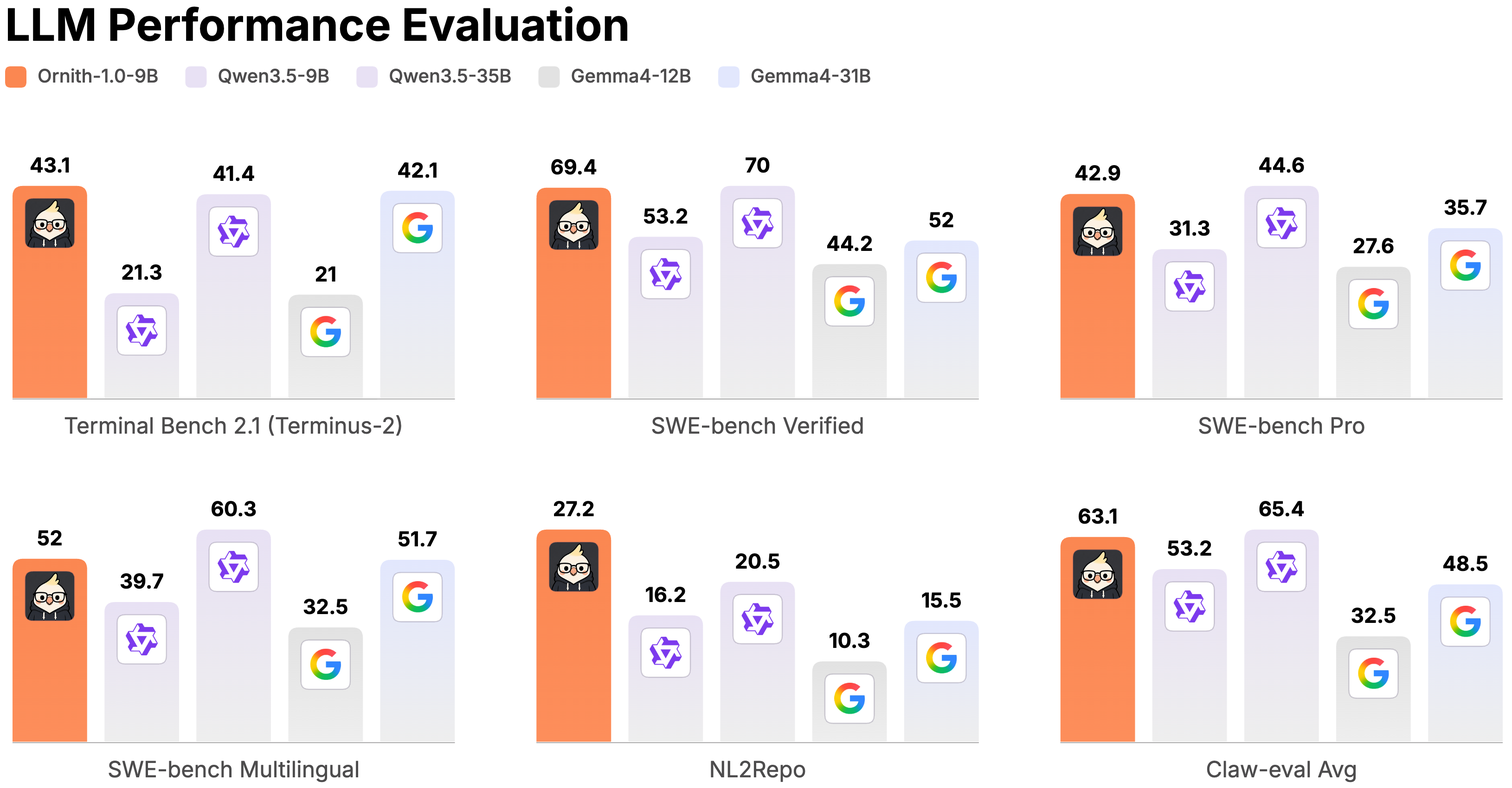
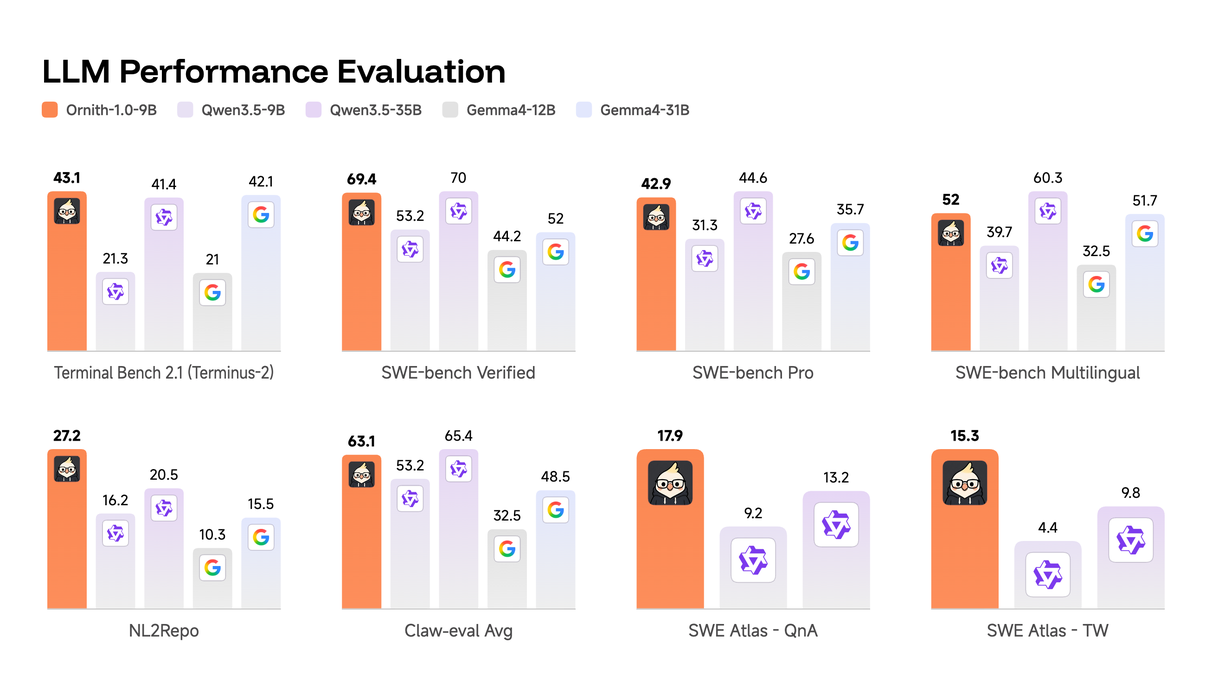
init

diff --git a/README.md b/README.md
@@ -26,70 +26,59 @@ This model card documents **Ornith-1.0-9B**, the most lightweight member of the 
 
 ### Benchmarks
 
+The table below merges the benchmark results of the full **Ornith-1.0** family (9B / 35B / 397B) into a single view. Each model is compared against the open-source and proprietary baselines reported in its respective model card.
 
-<div style="font-family:-apple-system,BlinkMacSystemFont,'Segoe UI',Roboto,sans-serif;width:100%;margin:0 auto;padding:16px 0">
-<table style="width:100%;table-layout:fixed;border-collapse:collapse;font-size:13px">
-<thead><tr>
-<th style="width:28%;padding:10px 7px;text-align:left;font-weight:600;border-bottom:2px solid #FD8E5B;color:#FD8E5B"></th><th style="width:14.4%;padding:10px 7px;text-align:center;font-weight:700;border-bottom:2px solid #FD8E5B;color:#FD8E5B;font-size:14px;background:rgba(253, 142, 91, 0.12)">Ornith-1.0-9B</th><th style="width:14.4%;padding:10px 7px;text-align:center;font-weight:500;border-bottom:2px solid #FD8E5B;color:#FD8E5B;font-size:14px;">Qwen3.5-9B</th><th style="width:14.4%;padding:10px 7px;text-align:center;font-weight:500;border-bottom:2px solid #FD8E5B;color:#FD8E5B;font-size:14px;">Qwen3.5-35B-A3B</th><th style="width:14.4%;padding:10px 7px;text-align:center;font-weight:500;border-bottom:2px solid #FD8E5B;color:#FD8E5B;font-size:14px;">Gemma4-12B</th><th style="width:14.4%;padding:10px 7px;text-align:center;font-weight:500;border-bottom:2px solid #FD8E5B;color:#FD8E5B;font-size:14px;">Gemma4-31B</th></tr></thead>
+<div style="font-family:-apple-system,BlinkMacSystemFont,'Segoe UI',Roboto,sans-serif;width:100%;margin:0 auto;padding:16px 0;overflow-x:auto">
+<table style="min-width:1180px;border-collapse:collapse;font-size:12px">
+<thead>
+<tr>
+<th style="padding:8px 8px;text-align:left;border-bottom:2px solid #FD8E5B;color:#FD8E5B"></th>
+<th colspan="3" style="padding:8px 7px;text-align:center;font-weight:700;border-bottom:2px solid #FD8E5B;color:#FD8E5B;background:rgba(253,142,91,0.12);">Ornith-1.0 (ours)</th>
+<th colspan="9" style="padding:8px 7px;text-align:center;font-weight:600;border-bottom:2px solid #FD8E5B;color:#FD8E5B;">Open-Source Baselines</th>
+<th colspan="3" style="padding:8px 7px;text-align:center;font-weight:600;border-bottom:2px solid #FD8E5B;color:#FD8E5B;">Proprietary</th>
+</tr>
+<tr>
+<th style="padding:8px 8px;text-align:left;border-bottom:2px solid #FD8E5B;color:#FD8E5B"></th>
+<th style="padding:8px 6px;text-align:center;font-weight:700;border-bottom:2px solid #FD8E5B;color:#FD8E5B;background:rgba(253,142,91,0.12)">Ornith-1.0-9B</th>
+<th style="padding:8px 6px;text-align:center;font-weight:700;border-bottom:2px solid #FD8E5B;color:#FD8E5B;background:rgba(253,142,91,0.12)">Ornith-1.0-35B</th>
+<th style="padding:8px 6px;text-align:center;font-weight:700;border-bottom:2px solid #FD8E5B;color:#FD8E5B;background:rgba(253,142,91,0.12)">Ornith-1.0-397B</th>
+<th style="padding:8px 6px;text-align:center;font-weight:500;border-bottom:2px solid #FD8E5B;color:#FD8E5B">Qwen3.5-9B</th>
+<th style="padding:8px 6px;text-align:center;font-weight:500;border-bottom:2px solid #FD8E5B;color:#FD8E5B">Gemma4-12B</th>
+<th style="padding:8px 6px;text-align:center;font-weight:500;border-bottom:2px solid #FD8E5B;color:#FD8E5B">Qwen3.5-35B</th>
+<th style="padding:8px 6px;text-align:center;font-weight:500;border-bottom:2px solid #FD8E5B;color:#FD8E5B">Qwen3.6-35B</th>
+<th style="padding:8px 6px;text-align:center;font-weight:500;border-bottom:2px solid #FD8E5B;color:#FD8E5B">Gemma4-31B</th>
+<th style="padding:8px 6px;text-align:center;font-weight:500;border-bottom:2px solid #FD8E5B;color:#FD8E5B">Qwen3.5-397B</th>
+<th style="padding:8px 6px;text-align:center;font-weight:500;border-bottom:2px solid #FD8E5B;color:#FD8E5B">Minimax-M3-428B</th>
+<th style="padding:8px 6px;text-align:center;font-weight:500;border-bottom:2px solid #FD8E5B;color:#FD8E5B">GLM-5.2-744B</th>
+<th style="padding:8px 6px;text-align:center;font-weight:500;border-bottom:2px solid #FD8E5B;color:#FD8E5B">DeepSeek-V4-Pro-1.6T</th>
+<th style="padding:8px 6px;text-align:center;font-weight:500;border-bottom:2px solid #FD8E5B;color:#FD8E5B">Qwen3.7-Max</th>
+<th style="padding:8px 6px;text-align:center;font-weight:500;border-bottom:2px solid #FD8E5B;color:#FD8E5B">Claude Opus 4.7</th>
+<th style="padding:8px 6px;text-align:center;font-weight:500;border-bottom:2px solid #FD8E5B;color:#FD8E5B">Claude Opus 4.8</th>
+</tr>
+</thead>
 <tbody>
-<tr><td colspan="6" style="padding:8px 12px;font-weight:600;color:#FD8E5B;border-bottom:1px solid rgba(253, 142, 91, 0.2);background:rgba(253, 142, 91, 0.1)">Agentic Coding</td></tr>
-<tr>
-<td style="padding:7px 7px;padding-left:20px;border-bottom:1px solid rgba(128, 128, 128, 0.15);">Terminal-Bench 2.1 <sub><small>(Terminus-2)</small></sub></td>
-<td style="padding:7px 7px;text-align:center;border-bottom:1px solid rgba(128, 128, 128, 0.15);font-weight:600;color:#FD8E5B;background:rgba(253, 142, 91, 0.06)">43.1</td>
-<td style="padding:7px 7px;text-align:center;border-bottom:1px solid rgba(128, 128, 128, 0.15)">21.3</td>
-<td style="padding:7px 7px;text-align:center;border-bottom:1px solid rgba(128, 128, 128, 0.15)">41.4</td>
-<td style="padding:7px 7px;text-align:center;border-bottom:1px solid rgba(128, 128, 128, 0.15)">21.0</td>
-<td style="padding:7px 7px;text-align:center;border-bottom:1px solid rgba(128, 128, 128, 0.15)">42.1</td>
-</tr>
-<tr>
-<td style="padding:7px 7px;padding-left:20px;border-bottom:1px solid rgba(128, 128, 128, 0.15);">SWE-bench Verified</td>
-<td style="padding:7px 7px;text-align:center;border-bottom:1px solid rgba(128, 128, 128, 0.15);font-weight:600;color:#FD8E5B;background:rgba(253, 142, 91, 0.06)">69.4</td>
-<td style="padding:7px 7px;text-align:center;border-bottom:1px solid rgba(128, 128, 128, 0.15)">53.2</td>
-<td style="padding:7px 7px;text-align:center;border-bottom:1px solid rgba(128, 128, 128, 0.15)">70.0</td>
-<td style="padding:7px 7px;text-align:center;border-bottom:1px solid rgba(128, 128, 128, 0.15)">44.2</td>
-<td style="padding:7px 7px;text-align:center;border-bottom:1px solid rgba(128, 128, 128, 0.15)">52.0</td>
-</tr>
-<tr>
-<td style="padding:7px 7px;padding-left:20px;border-bottom:1px solid rgba(128, 128, 128, 0.15);">SWE-bench Pro</td>
-<td style="padding:7px 7px;text-align:center;border-bottom:1px solid rgba(128, 128, 128, 0.15);font-weight:600;color:#FD8E5B;background:rgba(253, 142, 91, 0.06)">42.9</td>
-<td style="padding:7px 7px;text-align:center;border-bottom:1px solid rgba(128, 128, 128, 0.15)">31.3</td>
-<td style="padding:7px 7px;text-align:center;border-bottom:1px solid rgba(128, 128, 128, 0.15)">44.6</td>
-<td style="padding:7px 7px;text-align:center;border-bottom:1px solid rgba(128, 128, 128, 0.15)">27.6</td>
-<td style="padding:7px 7px;text-align:center;border-bottom:1px solid rgba(128, 128, 128, 0.15)">35.7</td>
-</tr>
-<tr>
-<td style="padding:7px 7px;padding-left:20px;border-bottom:1px solid rgba(128, 128, 128, 0.15);">SWE-bench Multilingual</td>
-<td style="padding:7px 7px;text-align:center;border-bottom:1px solid rgba(128, 128, 128, 0.15);font-weight:600;color:#FD8E5B;background:rgba(253, 142, 91, 0.06)">52.0</td>
-<td style="padding:7px 7px;text-align:center;border-bottom:1px solid rgba(128, 128, 128, 0.15)">39.7</td>
-<td style="padding:7px 7px;text-align:center;border-bottom:1px solid rgba(128, 128, 128, 0.15)">60.3</td>
-<td style="padding:7px 7px;text-align:center;border-bottom:1px solid rgba(128, 128, 128, 0.15)">32.5</td>
-<td style="padding:7px 7px;text-align:center;border-bottom:1px solid rgba(128, 128, 128, 0.15)">51.7</td>
-</tr>
-<tr>
-<td style="padding:7px 7px;padding-left:20px;border-bottom:1px solid rgba(128, 128, 128, 0.15);">NL2Repo</td>
-<td style="padding:7px 7px;text-align:center;border-bottom:1px solid rgba(128, 128, 128, 0.15);font-weight:600;color:#FD8E5B;background:rgba(253, 142, 91, 0.06)">27.2</td>
-<td style="padding:7px 7px;text-align:center;border-bottom:1px solid rgba(128, 128, 128, 0.15)">16.2</td>
-<td style="padding:7px 7px;text-align:center;border-bottom:1px solid rgba(128, 128, 128, 0.15)">20.5</td>
-<td style="padding:7px 7px;text-align:center;border-bottom:1px solid rgba(128, 128, 128, 0.15)">10.3</td>
-<td style="padding:7px 7px;text-align:center;border-bottom:1px solid rgba(128, 128, 128, 0.15)">15.5</td>
-</tr>
-<tr>
-<td style="padding:7px 7px;padding-left:20px;border-bottom:1px solid rgba(128, 128, 128, 0.15);">Claw-eval Avg</td>
-<td style="padding:7px 7px;text-align:center;border-bottom:1px solid rgba(128, 128, 128, 0.15);font-weight:600;color:#FD8E5B;background:rgba(253, 142, 91, 0.06)">63.1</td>
-<td style="padding:7px 7px;text-align:center;border-bottom:1px solid rgba(128, 128, 128, 0.15)">53.2</td>
-<td style="padding:7px 7px;text-align:center;border-bottom:1px solid rgba(128, 128, 128, 0.15)">65.4</td>
-<td style="padding:7px 7px;text-align:center;border-bottom:1px solid rgba(128, 128, 128, 0.15)">32.5</td>
-<td style="padding:7px 7px;text-align:center;border-bottom:1px solid rgba(128, 128, 128, 0.15)">48.5</td>
-</tr>
+<tr><td colspan="16" style="padding:8px 12px;font-weight:600;color:#FD8E5B;border-bottom:1px solid rgba(253,142,91,0.2);background:rgba(253,142,91,0.1)">Agentic Coding</td></tr>
+<tr><td style="padding:6px 8px;padding-left:16px;border-bottom:1px solid rgba(128,128,128,0.15);white-space:nowrap">Terminal-Bench 2.1 <sub><small>(Terminus-2)</small></sub></td><td style="padding:6px 6px;text-align:center;border-bottom:1px solid rgba(128,128,128,0.15);font-weight:600;color:#FD8E5B;background:rgba(253,142,91,0.06)">43.1</td><td style="padding:6px 6px;text-align:center;border-bottom:1px solid rgba(128,128,128,0.15);font-weight:600;color:#FD8E5B;background:rgba(253,142,91,0.06)">64.2</td><td style="padding:6px 6px;text-align:center;border-bottom:1px solid rgba(128,128,128,0.15);font-weight:600;color:#FD8E5B;background:rgba(253,142,91,0.06)">77.5</td><td style="padding:6px 6px;text-align:center;border-bottom:1px solid rgba(128,128,128,0.15)">21.3</td><td style="padding:6px 6px;text-align:center;border-bottom:1px solid rgba(128,128,128,0.15)">21</td><td style="padding:6px 6px;text-align:center;border-bottom:1px solid rgba(128,128,128,0.15)">41.4</td><td style="padding:6px 6px;text-align:center;border-bottom:1px solid rgba(128,128,128,0.15)">52.5</td><td style="padding:6px 6px;text-align:center;border-bottom:1px solid rgba(128,128,128,0.15)">42.1</td><td style="padding:6px 6px;text-align:center;border-bottom:1px solid rgba(128,128,128,0.15)">53.5</td><td style="padding:6px 6px;text-align:center;border-bottom:1px solid rgba(128,128,128,0.15)">64</td><td style="padding:6px 6px;text-align:center;border-bottom:1px solid rgba(128,128,128,0.15)">81.0</td><td style="padding:6px 6px;text-align:center;border-bottom:1px solid rgba(128,128,128,0.15)">64</td><td style="padding:6px 6px;text-align:center;border-bottom:1px solid rgba(128,128,128,0.15)">73.5</td><td style="padding:6px 6px;text-align:center;border-bottom:1px solid rgba(128,128,128,0.15)">70.3</td><td style="padding:6px 6px;text-align:center;border-bottom:1px solid rgba(128,128,128,0.15)">85</td></tr>
+<tr><td style="padding:6px 8px;padding-left:16px;border-bottom:1px solid rgba(128,128,128,0.15);white-space:nowrap">Terminal-Bench 2.1 <sub><small>(Claude Code)</small></sub></td><td style="padding:6px 6px;text-align:center;border-bottom:1px solid rgba(128,128,128,0.15);font-weight:600;color:#FD8E5B;background:rgba(253,142,91,0.06)">40.6</td><td style="padding:6px 6px;text-align:center;border-bottom:1px solid rgba(128,128,128,0.15);font-weight:600;color:#FD8E5B;background:rgba(253,142,91,0.06)">62.8</td><td style="padding:6px 6px;text-align:center;border-bottom:1px solid rgba(128,128,128,0.15);font-weight:600;color:#FD8E5B;background:rgba(253,142,91,0.06)">78.2</td><td style="padding:6px 6px;text-align:center;border-bottom:1px solid rgba(128,128,128,0.15)">18.9</td><td style="padding:6px 6px;text-align:center;border-bottom:1px solid rgba(128,128,128,0.15)">-</td><td style="padding:6px 6px;text-align:center;border-bottom:1px solid rgba(128,128,128,0.15)">38.9</td><td style="padding:6px 6px;text-align:center;border-bottom:1px solid rgba(128,128,128,0.15)">49.2</td><td style="padding:6px 6px;text-align:center;border-bottom:1px solid rgba(128,128,128,0.15)">-</td><td style="padding:6px 6px;text-align:center;border-bottom:1px solid rgba(128,128,128,0.15)">48.6</td><td style="padding:6px 6px;text-align:center;border-bottom:1px solid rgba(128,128,128,0.15)">-</td><td style="padding:6px 6px;text-align:center;border-bottom:1px solid rgba(128,128,128,0.15)">82.7</td><td style="padding:6px 6px;text-align:center;border-bottom:1px solid rgba(128,128,128,0.15)">66.5</td><td style="padding:6px 6px;text-align:center;border-bottom:1px solid rgba(128,128,128,0.15)">69.8</td><td style="padding:6px 6px;text-align:center;border-bottom:1px solid rgba(128,128,128,0.15)">69.7</td><td style="padding:6px 6px;text-align:center;border-bottom:1px solid rgba(128,128,128,0.15)">78.9</td></tr>
+<tr><td style="padding:6px 8px;padding-left:16px;border-bottom:1px solid rgba(128,128,128,0.15);white-space:nowrap">SWE-bench Verified</td><td style="padding:6px 6px;text-align:center;border-bottom:1px solid rgba(128,128,128,0.15);font-weight:600;color:#FD8E5B;background:rgba(253,142,91,0.06)">69.4</td><td style="padding:6px 6px;text-align:center;border-bottom:1px solid rgba(128,128,128,0.15);font-weight:600;color:#FD8E5B;background:rgba(253,142,91,0.06)">75.6</td><td style="padding:6px 6px;text-align:center;border-bottom:1px solid rgba(128,128,128,0.15);font-weight:600;color:#FD8E5B;background:rgba(253,142,91,0.06)">82.4</td><td style="padding:6px 6px;text-align:center;border-bottom:1px solid rgba(128,128,128,0.15)">53.2</td><td style="padding:6px 6px;text-align:center;border-bottom:1px solid rgba(128,128,128,0.15)">44.2</td><td style="padding:6px 6px;text-align:center;border-bottom:1px solid rgba(128,128,128,0.15)">70</td><td style="padding:6px 6px;text-align:center;border-bottom:1px solid rgba(128,128,128,0.15)">73.4</td><td style="padding:6px 6px;text-align:center;border-bottom:1px solid rgba(128,128,128,0.15)">52</td><td style="padding:6px 6px;text-align:center;border-bottom:1px solid rgba(128,128,128,0.15)">76.4</td><td style="padding:6px 6px;text-align:center;border-bottom:1px solid rgba(128,128,128,0.15)">-</td><td style="padding:6px 6px;text-align:center;border-bottom:1px solid rgba(128,128,128,0.15)">-</td><td style="padding:6px 6px;text-align:center;border-bottom:1px solid rgba(128,128,128,0.15)">80.6</td><td style="padding:6px 6px;text-align:center;border-bottom:1px solid rgba(128,128,128,0.15)">80.4</td><td style="padding:6px 6px;text-align:center;border-bottom:1px solid rgba(128,128,128,0.15)">80.8</td><td style="padding:6px 6px;text-align:center;border-bottom:1px solid rgba(128,128,128,0.15)">87.6</td></tr>
+<tr><td style="padding:6px 8px;padding-left:16px;border-bottom:1px solid rgba(128,128,128,0.15);white-space:nowrap">SWE-bench Pro</td><td style="padding:6px 6px;text-align:center;border-bottom:1px solid rgba(128,128,128,0.15);font-weight:600;color:#FD8E5B;background:rgba(253,142,91,0.06)">42.9</td><td style="padding:6px 6px;text-align:center;border-bottom:1px solid rgba(128,128,128,0.15);font-weight:600;color:#FD8E5B;background:rgba(253,142,91,0.06)">50.4</td><td style="padding:6px 6px;text-align:center;border-bottom:1px solid rgba(128,128,128,0.15);font-weight:600;color:#FD8E5B;background:rgba(253,142,91,0.06)">62.2</td><td style="padding:6px 6px;text-align:center;border-bottom:1px solid rgba(128,128,128,0.15)">31.3</td><td style="padding:6px 6px;text-align:center;border-bottom:1px solid rgba(128,128,128,0.15)">27.6</td><td style="padding:6px 6px;text-align:center;border-bottom:1px solid rgba(128,128,128,0.15)">44.6</td><td style="padding:6px 6px;text-align:center;border-bottom:1px solid rgba(128,128,128,0.15)">49.5</td><td style="padding:6px 6px;text-align:center;border-bottom:1px solid rgba(128,128,128,0.15)">35.7</td><td style="padding:6px 6px;text-align:center;border-bottom:1px solid rgba(128,128,128,0.15)">51.6</td><td style="padding:6px 6px;text-align:center;border-bottom:1px solid rgba(128,128,128,0.15)">59</td><td style="padding:6px 6px;text-align:center;border-bottom:1px solid rgba(128,128,128,0.15)">62.1</td><td style="padding:6px 6px;text-align:center;border-bottom:1px solid rgba(128,128,128,0.15)">55.4</td><td style="padding:6px 6px;text-align:center;border-bottom:1px solid rgba(128,128,128,0.15)">60.6</td><td style="padding:6px 6px;text-align:center;border-bottom:1px solid rgba(128,128,128,0.15)">64.3</td><td style="padding:6px 6px;text-align:center;border-bottom:1px solid rgba(128,128,128,0.15)">69.2</td></tr>
+<tr><td style="padding:6px 8px;padding-left:16px;border-bottom:1px solid rgba(128,128,128,0.15);white-space:nowrap">SWE-bench Multilingual</td><td style="padding:6px 6px;text-align:center;border-bottom:1px solid rgba(128,128,128,0.15);font-weight:600;color:#FD8E5B;background:rgba(253,142,91,0.06)">52</td><td style="padding:6px 6px;text-align:center;border-bottom:1px solid rgba(128,128,128,0.15);font-weight:600;color:#FD8E5B;background:rgba(253,142,91,0.06)">69.3</td><td style="padding:6px 6px;text-align:center;border-bottom:1px solid rgba(128,128,128,0.15);font-weight:600;color:#FD8E5B;background:rgba(253,142,91,0.06)">78.9</td><td style="padding:6px 6px;text-align:center;border-bottom:1px solid rgba(128,128,128,0.15)">39.7</td><td style="padding:6px 6px;text-align:center;border-bottom:1px solid rgba(128,128,128,0.15)">32.5</td><td style="padding:6px 6px;text-align:center;border-bottom:1px solid rgba(128,128,128,0.15)">60.3</td><td style="padding:6px 6px;text-align:center;border-bottom:1px solid rgba(128,128,128,0.15)">67.2</td><td style="padding:6px 6px;text-align:center;border-bottom:1px solid rgba(128,128,128,0.15)">51.7</td><td style="padding:6px 6px;text-align:center;border-bottom:1px solid rgba(128,128,128,0.15)">69.3</td><td style="padding:6px 6px;text-align:center;border-bottom:1px solid rgba(128,128,128,0.15)">-</td><td style="padding:6px 6px;text-align:center;border-bottom:1px solid rgba(128,128,128,0.15)">-</td><td style="padding:6px 6px;text-align:center;border-bottom:1px solid rgba(128,128,128,0.15)">76.2</td><td style="padding:6px 6px;text-align:center;border-bottom:1px solid rgba(128,128,128,0.15)">78.3</td><td style="padding:6px 6px;text-align:center;border-bottom:1px solid rgba(128,128,128,0.15)">-</td><td style="padding:6px 6px;text-align:center;border-bottom:1px solid rgba(128,128,128,0.15)">-</td></tr>
+<tr><td style="padding:6px 8px;padding-left:16px;border-bottom:1px solid rgba(128,128,128,0.15);white-space:nowrap">NL2Repo</td><td style="padding:6px 6px;text-align:center;border-bottom:1px solid rgba(128,128,128,0.15);font-weight:600;color:#FD8E5B;background:rgba(253,142,91,0.06)">27.2</td><td style="padding:6px 6px;text-align:center;border-bottom:1px solid rgba(128,128,128,0.15);font-weight:600;color:#FD8E5B;background:rgba(253,142,91,0.06)">34.6</td><td style="padding:6px 6px;text-align:center;border-bottom:1px solid rgba(128,128,128,0.15);font-weight:600;color:#FD8E5B;background:rgba(253,142,91,0.06)">48.2</td><td style="padding:6px 6px;text-align:center;border-bottom:1px solid rgba(128,128,128,0.15)">16.2</td><td style="padding:6px 6px;text-align:center;border-bottom:1px solid rgba(128,128,128,0.15)">10.3</td><td style="padding:6px 6px;text-align:center;border-bottom:1px solid rgba(128,128,128,0.15)">20.5</td><td style="padding:6px 6px;text-align:center;border-bottom:1px solid rgba(128,128,128,0.15)">29.4</td><td style="padding:6px 6px;text-align:center;border-bottom:1px solid rgba(128,128,128,0.15)">15.5</td><td style="padding:6px 6px;text-align:center;border-bottom:1px solid rgba(128,128,128,0.15)">36.8</td><td style="padding:6px 6px;text-align:center;border-bottom:1px solid rgba(128,128,128,0.15)">42.1</td><td style="padding:6px 6px;text-align:center;border-bottom:1px solid rgba(128,128,128,0.15)">48.9</td><td style="padding:6px 6px;text-align:center;border-bottom:1px solid rgba(128,128,128,0.15)">-</td><td style="padding:6px 6px;text-align:center;border-bottom:1px solid rgba(128,128,128,0.15)">47.2</td><td style="padding:6px 6px;text-align:center;border-bottom:1px solid rgba(128,128,128,0.15)">-</td><td style="padding:6px 6px;text-align:center;border-bottom:1px solid rgba(128,128,128,0.15)">69.7</td></tr>
+<tr><td style="padding:6px 8px;padding-left:16px;border-bottom:1px solid rgba(128,128,128,0.15);white-space:nowrap">Claw-eval Avg</td><td style="padding:6px 6px;text-align:center;border-bottom:1px solid rgba(128,128,128,0.15);font-weight:600;color:#FD8E5B;background:rgba(253,142,91,0.06)">63.1</td><td style="padding:6px 6px;text-align:center;border-bottom:1px solid rgba(128,128,128,0.15);font-weight:600;color:#FD8E5B;background:rgba(253,142,91,0.06)">69.8</td><td style="padding:6px 6px;text-align:center;border-bottom:1px solid rgba(128,128,128,0.15);font-weight:600;color:#FD8E5B;background:rgba(253,142,91,0.06)">77.1</td><td style="padding:6px 6px;text-align:center;border-bottom:1px solid rgba(128,128,128,0.15)">53.2</td><td style="padding:6px 6px;text-align:center;border-bottom:1px solid rgba(128,128,128,0.15)">32.5</td><td style="padding:6px 6px;text-align:center;border-bottom:1px solid rgba(128,128,128,0.15)">65.4</td><td style="padding:6px 6px;text-align:center;border-bottom:1px solid rgba(128,128,128,0.15)">68.7</td><td style="padding:6px 6px;text-align:center;border-bottom:1px solid rgba(128,128,128,0.15)">48.5</td><td style="padding:6px 6px;text-align:center;border-bottom:1px solid rgba(128,128,128,0.15)">70.7</td><td style="padding:6px 6px;text-align:center;border-bottom:1px solid rgba(128,128,128,0.15)">-</td><td style="padding:6px 6px;text-align:center;border-bottom:1px solid rgba(128,128,128,0.15)">-</td><td style="padding:6px 6px;text-align:center;border-bottom:1px solid rgba(128,128,128,0.15)">75.8</td><td style="padding:6px 6px;text-align:center;border-bottom:1px solid rgba(128,128,128,0.15)">65.2</td><td style="padding:6px 6px;text-align:center;border-bottom:1px solid rgba(128,128,128,0.15)">78.2</td><td style="padding:6px 6px;text-align:center;border-bottom:1px solid rgba(128,128,128,0.15)">-</td></tr>
+<tr><td style="padding:6px 8px;padding-left:16px;border-bottom:1px solid rgba(128,128,128,0.15);white-space:nowrap">SWE Atlas - QnA</td><td style="padding:6px 6px;text-align:center;border-bottom:1px solid rgba(128,128,128,0.15);font-weight:600;color:#FD8E5B;background:rgba(253,142,91,0.06)">17.9</td><td style="padding:6px 6px;text-align:center;border-bottom:1px solid rgba(128,128,128,0.15);font-weight:600;color:#FD8E5B;background:rgba(253,142,91,0.06)">37.1</td><td style="padding:6px 6px;text-align:center;border-bottom:1px solid rgba(128,128,128,0.15);font-weight:600;color:#FD8E5B;background:rgba(253,142,91,0.06)">41.2</td><td style="padding:6px 6px;text-align:center;border-bottom:1px solid rgba(128,128,128,0.15)">9.2</td><td style="padding:6px 6px;text-align:center;border-bottom:1px solid rgba(128,128,128,0.15)">-</td><td style="padding:6px 6px;text-align:center;border-bottom:1px solid rgba(128,128,128,0.15)">13.2</td><td style="padding:6px 6px;text-align:center;border-bottom:1px solid rgba(128,128,128,0.15)">15.5</td><td style="padding:6px 6px;text-align:center;border-bottom:1px solid rgba(128,128,128,0.15)">-</td><td style="padding:6px 6px;text-align:center;border-bottom:1px solid rgba(128,128,128,0.15)">20.4</td><td style="padding:6px 6px;text-align:center;border-bottom:1px solid rgba(128,128,128,0.15)">37.9</td><td style="padding:6px 6px;text-align:center;border-bottom:1px solid rgba(128,128,128,0.15)">-</td><td style="padding:6px 6px;text-align:center;border-bottom:1px solid rgba(128,128,128,0.15)">27.2</td><td style="padding:6px 6px;text-align:center;border-bottom:1px solid rgba(128,128,128,0.15)">-</td><td style="padding:6px 6px;text-align:center;border-bottom:1px solid rgba(128,128,128,0.15)">40.3</td><td style="padding:6px 6px;text-align:center;border-bottom:1px solid rgba(128,128,128,0.15)">48.8</td></tr>
+<tr><td style="padding:6px 8px;padding-left:16px;border-bottom:1px solid rgba(128,128,128,0.15);white-space:nowrap">SWE Atlas - RF</td><td style="padding:6px 6px;text-align:center;border-bottom:1px solid rgba(128,128,128,0.15);font-weight:600;color:#FD8E5B;background:rgba(253,142,91,0.06)">16.6</td><td style="padding:6px 6px;text-align:center;border-bottom:1px solid rgba(128,128,128,0.15);font-weight:600;color:#FD8E5B;background:rgba(253,142,91,0.06)">29.7</td><td style="padding:6px 6px;text-align:center;border-bottom:1px solid rgba(128,128,128,0.15);font-weight:600;color:#FD8E5B;background:rgba(253,142,91,0.06)">42.6</td><td style="padding:6px 6px;text-align:center;border-bottom:1px solid rgba(128,128,128,0.15)">4.3</td><td style="padding:6px 6px;text-align:center;border-bottom:1px solid rgba(128,128,128,0.15)">-</td><td style="padding:6px 6px;text-align:center;border-bottom:1px solid rgba(128,128,128,0.15)">10.2</td><td style="padding:6px 6px;text-align:center;border-bottom:1px solid rgba(128,128,128,0.15)">11.4</td><td style="padding:6px 6px;text-align:center;border-bottom:1px solid rgba(128,128,128,0.15)">-</td><td style="padding:6px 6px;text-align:center;border-bottom:1px solid rgba(128,128,128,0.15)">18.4</td><td style="padding:6px 6px;text-align:center;border-bottom:1px solid rgba(128,128,128,0.15)">-</td><td style="padding:6px 6px;text-align:center;border-bottom:1px solid rgba(128,128,128,0.15)">-</td><td style="padding:6px 6px;text-align:center;border-bottom:1px solid rgba(128,128,128,0.15)">-</td><td style="padding:6px 6px;text-align:center;border-bottom:1px solid rgba(128,128,128,0.15)">-</td><td style="padding:6px 6px;text-align:center;border-bottom:1px solid rgba(128,128,128,0.15)">48.6</td><td style="padding:6px 6px;text-align:center;border-bottom:1px solid rgba(128,128,128,0.15)">46.7</td></tr>
+<tr><td style="padding:6px 8px;padding-left:16px;border-bottom:1px solid rgba(128,128,128,0.15);white-space:nowrap">SWE Atlas - TW</td><td style="padding:6px 6px;text-align:center;border-bottom:1px solid rgba(128,128,128,0.15);font-weight:600;color:#FD8E5B;background:rgba(253,142,91,0.06)">15.3</td><td style="padding:6px 6px;text-align:center;border-bottom:1px solid rgba(128,128,128,0.15);font-weight:600;color:#FD8E5B;background:rgba(253,142,91,0.06)">27.8</td><td style="padding:6px 6px;text-align:center;border-bottom:1px solid rgba(128,128,128,0.15);font-weight:600;color:#FD8E5B;background:rgba(253,142,91,0.06)">39.1</td><td style="padding:6px 6px;text-align:center;border-bottom:1px solid rgba(128,128,128,0.15)">4.4</td><td style="padding:6px 6px;text-align:center;border-bottom:1px solid rgba(128,128,128,0.15)">-</td><td style="padding:6px 6px;text-align:center;border-bottom:1px solid rgba(128,128,128,0.15)">9.8</td><td style="padding:6px 6px;text-align:center;border-bottom:1px solid rgba(128,128,128,0.15)">13.3</td><td style="padding:6px 6px;text-align:center;border-bottom:1px solid rgba(128,128,128,0.15)">-</td><td style="padding:6px 6px;text-align:center;border-bottom:1px solid rgba(128,128,128,0.15)">18.5</td><td style="padding:6px 6px;text-align:center;border-bottom:1px solid rgba(128,128,128,0.15)">30.8</td><td style="padding:6px 6px;text-align:center;border-bottom:1px solid rgba(128,128,128,0.15)">-</td><td style="padding:6px 6px;text-align:center;border-bottom:1px solid rgba(128,128,128,0.15)">-</td><td style="padding:6px 6px;text-align:center;border-bottom:1px solid rgba(128,128,128,0.15)">-</td><td style="padding:6px 6px;text-align:center;border-bottom:1px solid rgba(128,128,128,0.15)">38.5</td><td style="padding:6px 6px;text-align:center;border-bottom:1px solid rgba(128,128,128,0.15)">-</td></tr>
 </tbody>
 </table>
 <p style="margin-top:12px;font-size:10px;opacity:0.7">
-* Terminal-Bench 2.1: Harbor/Terminus-2, 3h timeout, 32 CPU / 48GB RAM, avg of 5 runs.<br/>
-* All SWE-Bench：Mini-SWE-Agent, temp=1.0, top_p=0.95, 200K context window.<br/>
-* NL2Repo：400K context, 48k output, anti-hacking filters.<br/>
-* ClawEval: An agentic code benchmark over real-user task distributions; temp=0.6, 256K context.<br/>
+* Terminal-Bench 2.1 (Terminus-2): evaluated with the Harbor/Terminus-2 framework, parser=json, temperature=1.0, top_p=1.0, 128K context window. Each run uses a 4-hour timeout with 32 CPU cores and 48GB RAM, averaged over 5 runs. We adjust the Qwen chat template to keep training and inference consistent and modify Harbor to align with vLLM's reasoning_content key.<br/>
+* Terminal-Bench 2.1 (Claude Code): evaluated with Claude Code 2.1.126, parser=json, temperature=1.0, top_p=1.0, max_new_tokens=131072, averaged over 5 runs (Qwen chat template likewise modified).<br/>
+* SWE-bench Verified / Pro / Multilingual: OpenHands harness, temp=1.0, top_p=0.95, 256K context window.<br/>
+* SWE Atlas QnA / RF / TW: mini-SWE-agent harness, temp=1.0, top_p=0.95, 128K context window, averaged over 5 runs.<br/>
+* NL2Repo: temperature=1.0, top_p=1.0, 400K context, 48K output, anti-hacking filters.<br/>
+* ClawEval: an agentic code benchmark over real-user task distributions; temp=0.6, 256K context.<br/>
+* Each Ornith model is compared against the baselines reported in its own model card; cells marked <code>-</code> were not reported for that model.
 </p>
-
 </div>
 
 ## Quickstart
@@ -257,53 +246,130 @@ You can point any OpenAI-compatible SDK (Python, Node.js, etc.) or `curl` at the
 
 ## Agentic Usage
 
-
+Ornith-1.0-9B excels in tool-calling and agentic coding capabilities.
 
 ### Agent Frameworks
 
 Because Ornith-1.0-9B exposes an OpenAI-compatible endpoint with tool calling, it works out of the box with standard agent frameworks. Below is a minimal example that connects Ornith-1.0-9B to tools through an MCP server.
 
 ```python
+import os
+from openai import OpenAI
 
+client = OpenAI(
+    base_url=os.getenv("OPENAI_BASE_URL", "http://localhost:8000/v1"),
+    api_key=os.getenv("OPENAI_API_KEY", "EMPTY"),
+)
+
+tools = [
+    {
+        "type": "function",
+        "function": {
+            "name": "run_shell",
+            "description": "Run a shell command and return its output.",
+            "parameters": {
+                "type": "object",
+                "properties": {
+                    "command": {"type": "string", "description": "The command to run"}
+                },
+                "required": ["command"],
+            },
+        },
+    }
+]
+
+messages = [{"role": "user", "content": "List the Python files in the current directory."}]
+
+response = client.chat.completions.create(
+    model="deepreinforce-ai/Ornith-1.0-9B",
+    messages=messages,
+    tools=tools,
+    temperature=0.6,
+    top_p=0.95,
+)
+print(response.choices[0].message)
 ```
 
 **Examples of using Ornith with agent harness:**
 
 #### Hermes Agent
 ```bash
-
+# Hermes talks to any OpenAI-compatible endpoint — point it at your Ornith server.
+export OPENAI_BASE_URL="http://localhost:8000/v1"
+export OPENAI_API_KEY="EMPTY"
+export MODEL="deepreinforce-ai/Ornith-1.0-9B"
 ```
 
 #### OpenHands
 ```bash
+pip install openhands-ai
 
+# OpenHands routes through LiteLLM; the "openai/" prefix selects the OpenAI-compatible path.
+export LLM_MODEL="openai/deepreinforce-ai/Ornith-1.0-9B"
+export LLM_BASE_URL="http://localhost:8000/v1"
+export LLM_API_KEY="EMPTY"
+
+# Launch the CLI (or run the official OpenHands Docker image with the same env vars).
+openhands
 ```
 
 #### llama.cpp / Ollama
 ```bash
+# Both runtimes load a GGUF build of Ornith (publish one at deepreinforce-ai/Ornith-1.0-9B-GGUF).
 
+# llama.cpp — serve an OpenAI-compatible API on port 8000.
+llama-server -hf deepreinforce-ai/Ornith-1.0-9B-GGUF --port 8000 -c 262144
+
+# Ollama — pull and chat with the same GGUF straight from Hugging Face.
+ollama run hf.co/deepreinforce-ai/Ornith-1.0-9B-GGUF
 ```
 
 #### Unsloth Studio
 
 ```bash
+pip install unsloth
 
+# Load Ornith for fast local inference or fine-tuning (Python):
+#   from unsloth import FastLanguageModel
+#   model, tokenizer = FastLanguageModel.from_pretrained(
+#       "deepreinforce-ai/Ornith-1.0-9B",
+#       max_seq_length=262144,
+#       load_in_4bit=True,
+#   )
 ```
 
 
 #### OpenClaw
 
 ```bash
-
+# OpenClaw talks to any OpenAI-compatible endpoint — point it at your Ornith server.
+export OPENAI_BASE_URL="http://localhost:8000/v1"
+export OPENAI_API_KEY="EMPTY"
+export OPENAI_MODEL="deepreinforce-ai/Ornith-1.0-9B"
 ```
 
 
 ### Coding CLIs
 
+Ornith-1.0-9B is optimized for terminal-based coding agents. Point any OpenAI-compatible coding CLI at your Ornith-1.0-9B endpoint (set `OPENAI_BASE_URL` and `OPENAI_API_KEY`) to understand large codebases, automate tedious work, and ship faster.
 
 #### OpenCode
 ```bash
+# Register your local Ornith endpoint as a provider in ~/.config/opencode/opencode.json:
+#
+# {
+#   "$schema": "https://opencode.ai/config.json",
+#   "provider": {
+#     "ornith": {
+#       "npm": "@ai-sdk/openai-compatible",
+#       "name": "Ornith (local)",
+#       "options": { "baseURL": "http://localhost:8000/v1", "apiKey": "EMPTY" },
+#       "models": { "deepreinforce-ai/Ornith-1.0-9B": { "name": "Ornith-1.0-9B" } }
+#     }
+#   }
+# }
 
+opencode
 ```
 
 ### Citation
@@ -311,7 +377,7 @@ Because Ornith-1.0-9B exposes an OpenAI-compatible endpoint with tool calling, i
 If you find our work helpful, feel free to give us a cite.
 
 ```bibtex
-@misc{ornith_9b,
+@misc{ornith-1.0,
     title = {{Ornith-1.0}: Agentic Coding, Open to All},
     url = {https://deep-reinforce.com/ornith_1_0.html},
     author = {{DeepReinforce Team}},
